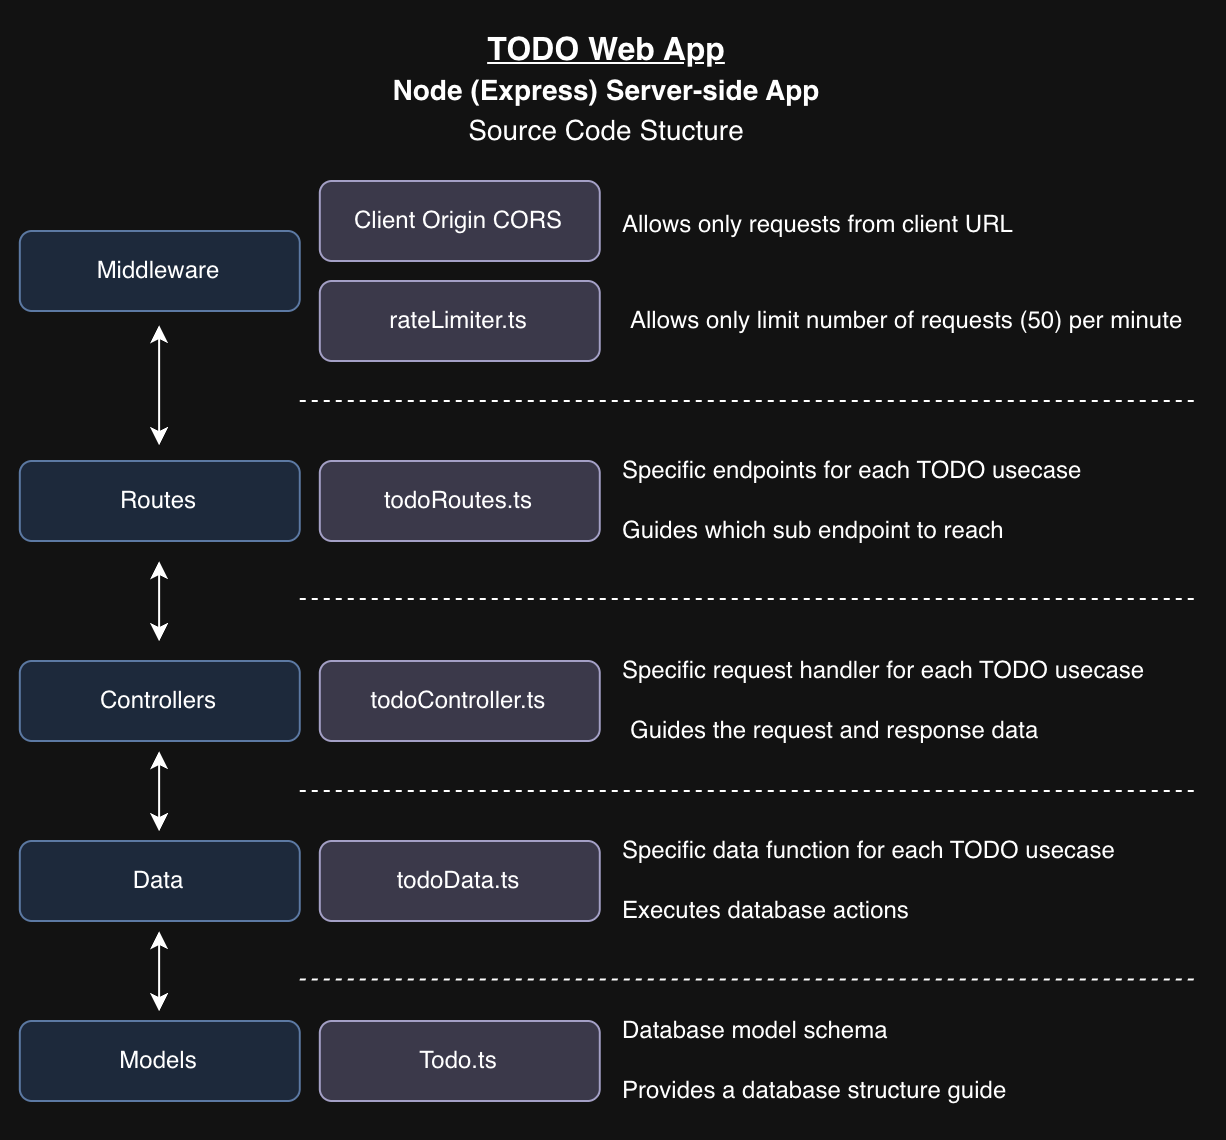
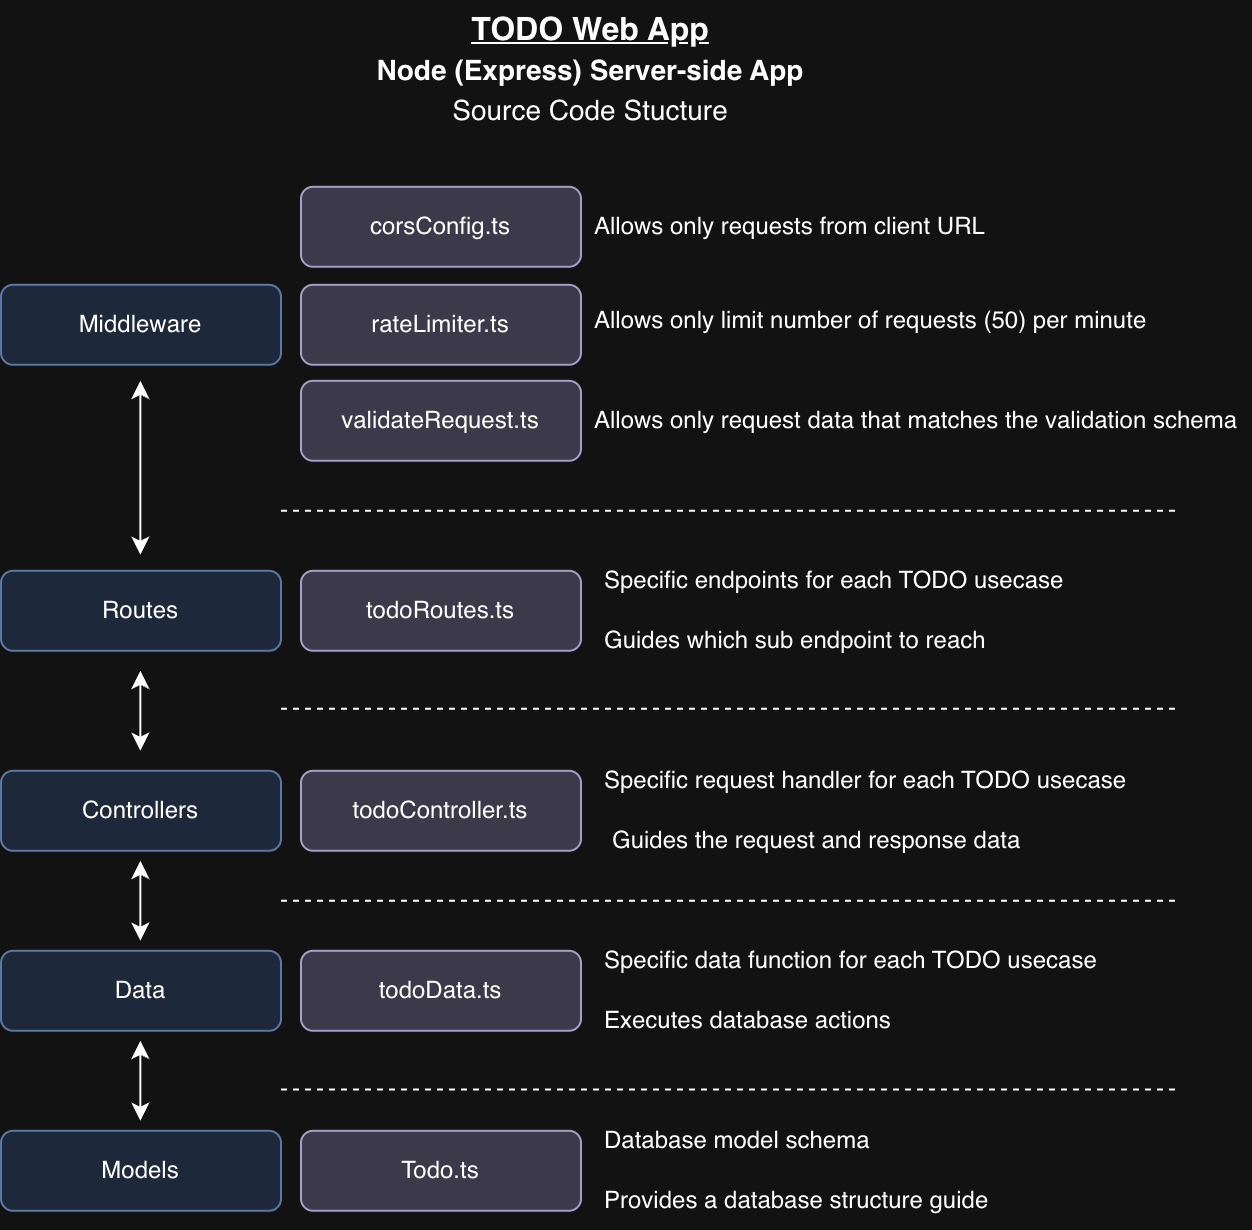
feat: implement CORS middleware for improved cross-origin requests handling

Changed region(s): [[0.0, 0.1535, 0.9918, 1.0], [0.31, 0.0, 0.6819, 0.1228], [0.4959, 0.6754, 0.8369, 0.7061]]

diff --git a/Workspace/server/src/index.ts b/Workspace/server/src/index.ts
@@ -1,9 +1,9 @@
 import express, { Request, Response } from "express";
-import cors from "cors";
 import dotenv from "dotenv";
 import { connectDB } from "./config/db";
 import todoRoutes from "./routes/todoRoutes";
 import { globalLimiter } from "./middlewares/rateLimiter";
+import { corsMiddleware } from "./middlewares/corsConfig";
 
 dotenv.config();
 
@@ -12,13 +12,7 @@ const port = process.env.PORT || 3000;
 
 connectDB();
 
-const clientOrigin = process.env.CLIENT_ORIGIN || "http://localhost:5173";
-
-app.use(
-  cors({
-    origin: clientOrigin,
-  }),
-);
+app.use(corsMiddleware);
 app.use(express.json());
 app.use(globalLimiter);
 

diff --git a/Workspace/server/src/middlewares/corsConfig.ts b/Workspace/server/src/middlewares/corsConfig.ts
@@ -1,0 +1,7 @@
+import cors from "cors";
+
+const clientOrigin = process.env.CLIENT_ORIGIN || "http://localhost:5173";
+
+export const corsMiddleware = cors({
+  origin: clientOrigin,
+});
